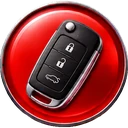
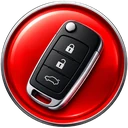
Chaves da ignicao com as imagens novas do dono (vermelha e verde) (28/10/2026)
Claude-Session: https://claude.ai/code/session_01UqpUQnBDLQ9f3Worn7r94n

diff --git a/tempo-real.html b/tempo-real.html
@@ -3078,8 +3078,8 @@ details:not([open])>summary .ico.lix[data-a="deleq"],details:not([open])>summary
 </style>
 <style>/* 28/10/2026 (dono): botões do cartão com ícones realistas (pasta icv/). Para voltar: apagar este bloco. */
 #sheet .vign.on,#sheet .vign.off{background:center/100% 100% no-repeat;border:0}
-#sheet .vign.on{background-image:url(icv/ui-chave-on.webp?v=3);box-shadow:0 0 12px rgba(34,197,94,.55)}
-#sheet .vign.off{background-image:url(icv/ui-chave-off.webp);box-shadow:0 0 8px rgba(220,38,38,.35)}
+#sheet .vign.on{background-image:url(icv/ui-chave-on.webp?v=4);box-shadow:0 0 12px rgba(34,197,94,.55)}
+#sheet .vign.off{background-image:url(icv/ui-chave-off.webp?v=4);box-shadow:0 0 8px rgba(220,38,38,.35)}
 #sheet .vign.on svg,#sheet .vign.off svg{display:none}
 main #sheet .vname .vign.on,main #sheet .vname .vign.off{width:34px;height:34px}
 main #sheet #btnRenome,main #sheet #btnIcone,main #sheet #btnRuaVer.adm{background:center/100% 100% no-repeat;border:0;box-shadow:0 2px 5px rgba(0,0,0,.18);border-radius:9px}
